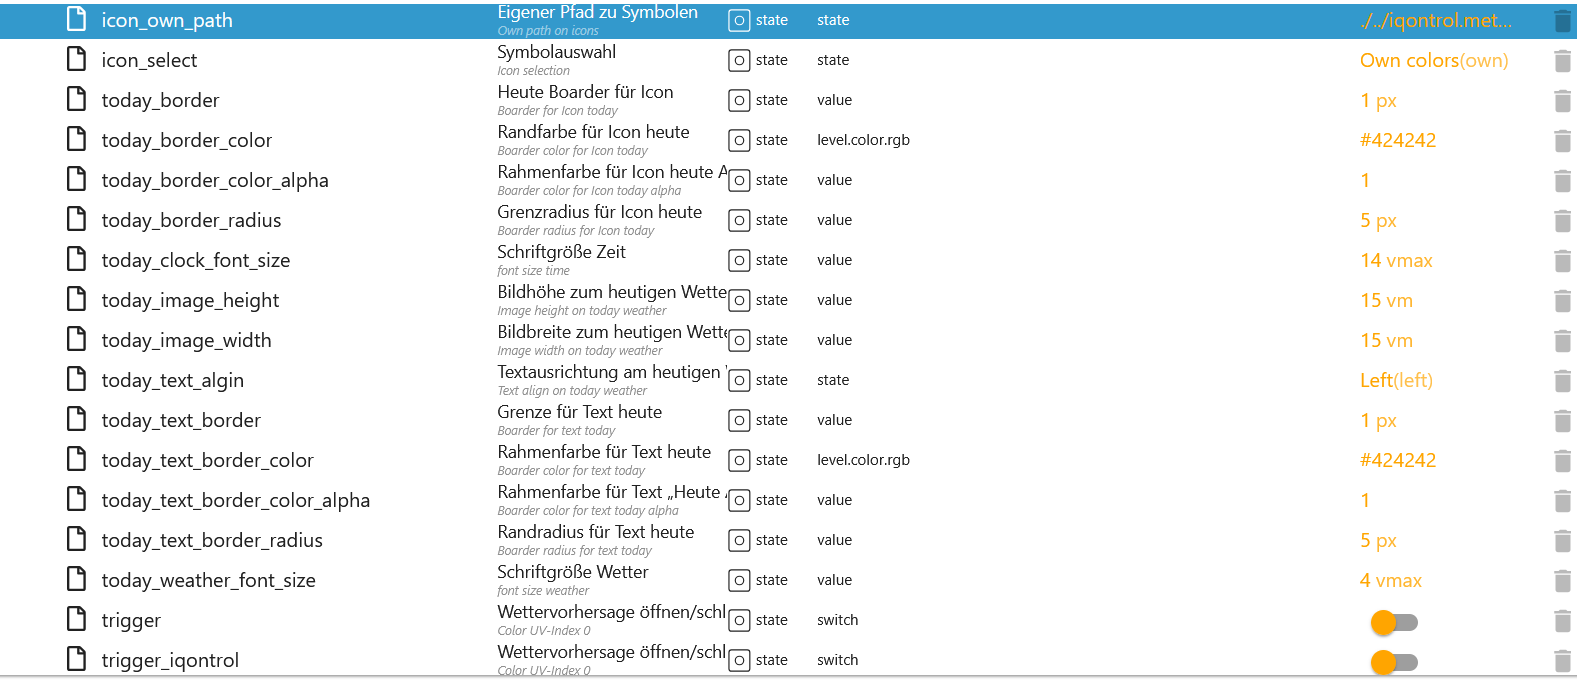
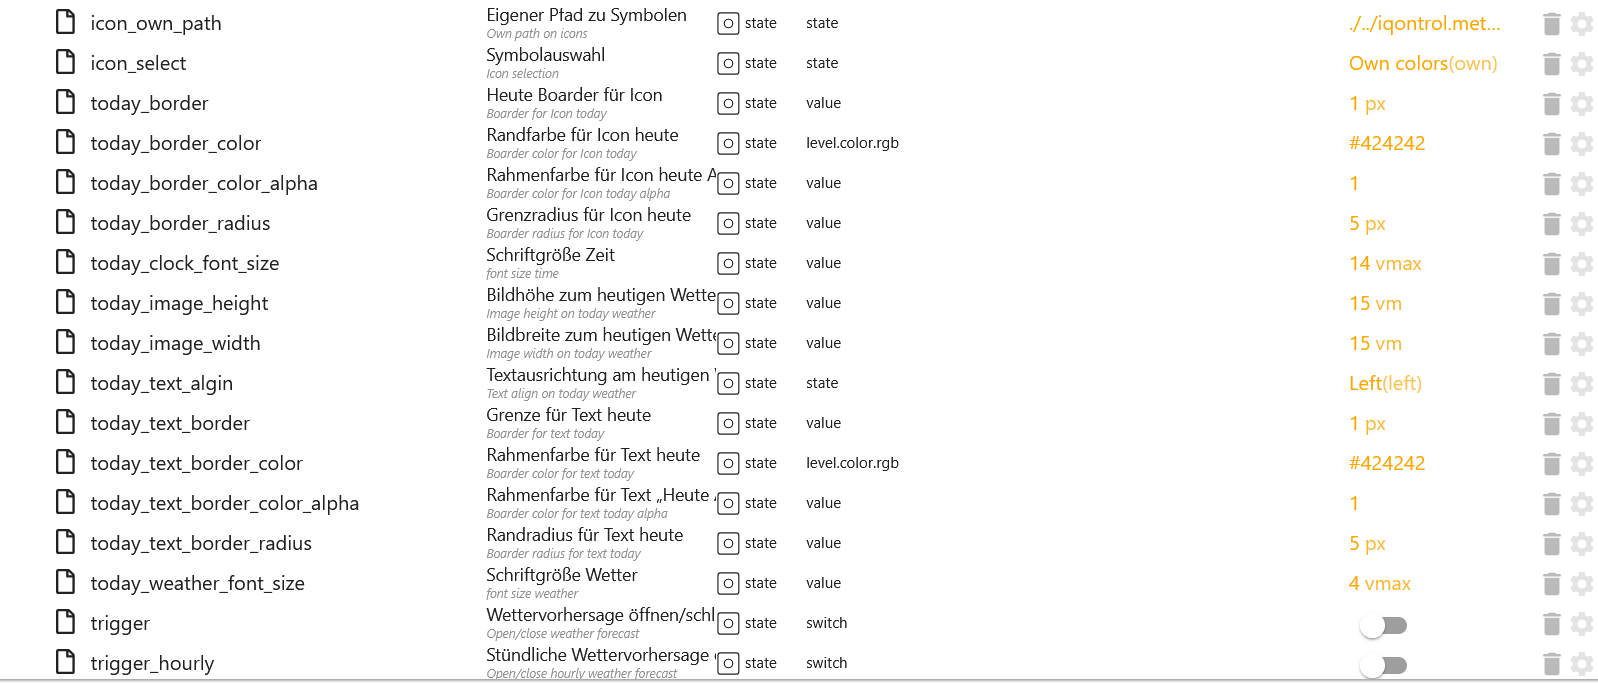
add 24h forecast for iqontrol

diff --git a/main.js b/main.js
@@ -227,11 +227,14 @@ class OpenMeteo extends utils.Adapter {
             } else if (command === "param") {
                 this.setOwnParam(state);
                 this.setState(id, { ack: true });
-            } else if (command === "trigger_iqontrol") {
-                this.html.trigger_iqontrol = state.val;
+            } else if (command === "trigger") {
+                this.html.trigger = state.val;
+                this.updateHTML();
                 this.setState(id, { ack: true });
-                this.setState(`html.trigger`, { val: this.html.trigger ? false : true, ack: true });
-                this.html.trigger = this.html.trigger ? false : true;
+            } else if (command === "trigger_hourly") {
+                this.html.trigger_hourly = state.val;
+                this.updateHTML();
+                this.setState(id, { ack: true });
             } else if (this.html[command]) {
                 this.log.debug(`HTML changed!`);
                 this.html[command] = state.val;
@@ -663,7 +666,7 @@ class OpenMeteo extends utils.Adapter {
                 this.param_second.minutely_15 != null
             ) {
                 const data = await this.getWeatherData(this.param_second);
-                //const data = constants.DUMMY_FOR_TESTING;
+                //const data = constants.TESTINGUV;
                 if (data) {
                     this.setStatusRequest(Math.round(this.req_second * 1.7));
                     this.log.debug(JSON.stringify(data));
@@ -1374,6 +1377,7 @@ class OpenMeteo extends utils.Adapter {
             `<img width="${this.html.today_weather_font_size * 5}px" height="${this.html.today_weather_font_size * 5}px" ` +
             `style="vertical-align:middle" alt="${actual_temperature}" title="${actual_temperature}" ` +
             `src='/adapter/open-meteo/img/thermalstress/${this.getThermalStress(actual_temperature)}'/>`;
+        const trigger_val = this.html.trigger ? false : true;
         let html =
             `<html>` +
             `<head>` +
@@ -1409,7 +1413,7 @@ class OpenMeteo extends utils.Adapter {
             `</head>` +
             `<body>` +
             `<div class="container_row"><span class="box_time"><b>${actual_clock}</b></span>` +
-            `    <input type="image" class="img_weather" onclick="setState('${this.namespace}.html.trigger_iqontrol', true)" src='${this.setIcon("current", id)}' />` +
+            `    <input type="image" class="img_weather" onclick="setState('${this.namespace}.html.trigger', ${trigger_val})" src='${this.setIcon("current", id)}' />` +
             `</div>` +
             `<div class="container_row">` +
             `    <div class="container_column">` +
@@ -1431,7 +1435,7 @@ class OpenMeteo extends utils.Adapter {
             const humidity = this.value[`daily.day0${i}.relative_humidity_2m_mean`];
             const humi =
                 `<img width="${this.html.forecast_font_size * 5}px" height="${this.html.forecast_font_size * 5}px" ` +
-                `style="vertical-align:middle" alt="${temp_min}" title="${temp_min}" ` +
+                `style="vertical-align:middle" alt="${humidity}" title="${humidity}" ` +
                 `src='/adapter/open-meteo/img/weathericons/humidity-water-drop.svg'/>`;
             const min =
                 `<img width="${this.html.forecast_font_size * 5}px" height="${this.html.forecast_font_size * 5}px" ` +
@@ -1456,6 +1460,142 @@ class OpenMeteo extends utils.Adapter {
         html += `    </table>` + `</div></body></html>`;
         this.log.debug(html);
         await this.setState(`html.html_code`, { val: html, ack: true });
+        this.updateHTMLHourly(actual_temperature);
+    }
+
+    async updateHTMLHourly(actual_temperature) {
+        let h = new Date().getHours();
+        const bg =
+            this.html.bg_color != "#000"
+                ? `	 background-color:${this.hexToRGBA(this.html.bg_color, this.html.bg_color_alpha)};`
+                : "";
+        const font =
+            this.html.font_color != "#000"
+                ? `;color:${this.hexToRGBA(this.html.font_color, this.html.font_color_alpha)}`
+                : "";
+        const id = this.value[`hourly.day01.hour${`0${h}`.slice(-2)}.weather_code`];
+        const actual_times = this.value[`hourly.day01.hour${`0${h}`.slice(-2)}.time`];
+        const name = constants.DAYNAME[new Date(actual_times).getDay()][this.lang];
+        const actual_date = this.formatDate(new Date(actual_times), "DD.MM.YYYY");
+        const actual_text = this.value[`hourly.day01.hour${`0${h}`.slice(-2)}.weather_code_text`];
+        const actual_clock = `${`0${new Date().getHours()}`.slice(-2)}:` + `${`0${new Date().getMinutes()}`.slice(-2)}`;
+        const actual =
+            `<img width="${this.html.today_weather_font_size * 5}px" height="${this.html.today_weather_font_size * 5}px" ` +
+            `style="vertical-align:middle" alt="${actual_temperature}" title="${actual_temperature}" ` +
+            `src='/adapter/open-meteo/img/thermalstress/${this.getThermalStress(actual_temperature)}'/>`;
+        const trigger_val = this.html.trigger_hourly ? false : true;
+        let html =
+            `<html>` +
+            `<head>` +
+            `<meta name="viewport" content="width=device-width, initial-scale=1.0, minimum-scale=1.0">` +
+            `<style>` +
+            `   body {${bg}}` +
+            `   span {text-align:${this.html.today_text_algin}${font};` +
+            `   border-radius:${this.html.today_border_radius}px;border-collapse:separate;border:${this.html.today_border}px solid gainsboro;` +
+            `   border-color:${this.hexToRGBA(this.html.today_border_color, this.html.today_border_color_alpha)};}` +
+            `   td {border-width:0px;border-style:solid;border-color:silver;}` +
+            `   input {height:10vw;width:10vw;}` +
+            `   .container_column {display:flex;flex-direction: column;justify-content: flex-start;` +
+            `   border-radius:${this.html.forecast_border_radius}px;border-collapse:separate;border:${this.html.forecast_border}px solid gainsboro;` +
+            `   border-color:${this.hexToRGBA(this.html.forecast_border_color, this.html.forecast_border_color_alpha)};}` +
+            `   .container_row {display: flex;flex-direction: row;justify-content: space-between;` +
+            `   border-radius:${this.html.today_text_border_radius}px;border-collapse:separate;border:${this.html.today_text_border}px solid gainsboro;` +
+            `   border-color:${this.hexToRGBA(this.html.today_text_border_color, this.html.today_text_border_color_alpha)};}` +
+            `   .img_weather {height:${this.html.today_image_height}vw;width:${this.html.today_image_width}vw;}` +
+            `   .box_time {font-size:${this.html.today_clock_font_size}vmax;}` +
+            `   .box_date {font-size:${this.html.today_date_font_size}vmax;text-align:center;}` +
+            `   .box_weather {font-size:${this.html.today_weather_font_size}vmax;margin-right:1.5vw;text-align:left;}` +
+            `   .table_forecast {margin-top:4vw;width: 100%;border-collapse: collapse;font-size:${this.html.forecast_font_size}vmax${font};}` +
+            `</style>` +
+            `<script type="text/javascript">` +
+            `    function setState(stateId, value){` +
+            `        sendPostMessage("setState", stateId, value);` +
+            `    }` +
+            `    function sendPostMessage(command, stateId, value){` +
+            `        message = {command: command, stateId: stateId, value: value};` +
+            `        window.parent.postMessage(message, "*");` +
+            `    }` +
+            `</script>` +
+            `</head>` +
+            `<body>` +
+            `<div class="container_row"><span class="box_time"><b>${actual_clock}</b></span>` +
+            `    <input type="image" class="img_weather" onclick="setState('${this.namespace}.html.trigger_hourly', ${trigger_val})" src='${this.setIcon("current", id)}' />` +
+            `</div>` +
+            `<div class="container_row">` +
+            `    <div class="container_column">` +
+            `        <span class="box_date"><b><i>${name}, ${actual_date}</i></b></span>` +
+            `    </div>` +
+            `    <div class="container_column">` +
+            `        <span class="box_weather">${actual} <b><i>${actual_temperature}°C</i></b></span>` +
+            `        <span class="box_weather"><i>${actual_text}</i></span>` +
+            `    </div>` +
+            `</div>` +
+            `<div class="container_column">` +
+            `    <table class="table_forecast">`;
+        if (h === 23) {
+            h = 0;
+        } else {
+            ++h;
+        }
+        if (this.config.forecast > 1) {
+            for (let i = h; i < 24; i++) {
+                const daily_id = this.value[`hourly.day01.hour${`0${i}`.slice(-2)}.weather_code`];
+                const times = this.value[`hourly.day01.hour${`0${i}`.slice(-2)}.time`];
+                const temp = this.value[`hourly.day01.hour${`0${i}`.slice(-2)}.apparent_temperature`];
+                const text = this.value[`hourly.day01.hour${`0${i}`.slice(-2)}.weather_code_text`];
+                const humidity = this.value[`hourly.day01.hour${`0${i}`.slice(-2)}.relative_humidity_2m`];
+                const humi =
+                    `<img width="${this.html.forecast_font_size * 5}px" height="${this.html.forecast_font_size * 5}px" ` +
+                    `style="vertical-align:middle" alt="${humidity}" title="${humidity}" ` +
+                    `src='/adapter/open-meteo/img/weathericons/humidity-water-drop.svg'/>`;
+                const min =
+                    `<img width="${this.html.forecast_font_size * 5}px" height="${this.html.forecast_font_size * 5}px" ` +
+                    `style="vertical-align:middle" alt="${temp}" title="${temp}" ` +
+                    `src='/adapter/open-meteo/img/thermalstress/${this.getThermalStress(temp)}'/>`;
+                const daily =
+                    `<img style="vertical-align:middle" width="${this.html.forecast_image_width}px" ` +
+                    `height="${this.html.forecast_image_height}px" alt="${text}" title="${text}" ` +
+                    `src='${this.setIcon(`daily.day0${i}`, daily_id)}'/>`;
+                html += `<tr>
+                                <td>${constants.DAYNAME[new Date(times).getDay()][this.lang]} ${this.timeCounting(new Date(times))}</td>
+                                <td>${daily}</td>
+                                <td nowrap>${min} ${temp}°C</td>
+                                <td>${humi} ${humidity}%</td>
+                                <td align=left>${text}</td>
+                            </tr>`;
+            }
+            if (h > 0) {
+                for (let i = 0; i < h; i++) {
+                    const daily_id = this.value[`hourly.day02.hour${`0${i}`.slice(-2)}.weather_code`];
+                    const times = this.value[`hourly.day02.hour${`0${i}`.slice(-2)}.time`];
+                    const temp = this.value[`hourly.day02.hour${`0${i}`.slice(-2)}.apparent_temperature`];
+                    const text = this.value[`hourly.day02.hour${`0${i}`.slice(-2)}.weather_code_text`];
+                    const humidity = this.value[`hourly.day02.hour${`0${i}`.slice(-2)}.relative_humidity_2m`];
+                    const humi =
+                        `<img width="${this.html.forecast_font_size * 5}px" height="${this.html.forecast_font_size * 5}px" ` +
+                        `style="vertical-align:middle" alt="${humidity}" title="${humidity}" ` +
+                        `src='/adapter/open-meteo/img/weathericons/humidity-water-drop.svg'/>`;
+                    const min =
+                        `<img width="${this.html.forecast_font_size * 5}px" height="${this.html.forecast_font_size * 5}px" ` +
+                        `style="vertical-align:middle" alt="${temp}" title="${temp}" ` +
+                        `src='/adapter/open-meteo/img/thermalstress/${this.getThermalStress(temp)}'/>`;
+                    const daily =
+                        `<img style="vertical-align:middle" width="${this.html.forecast_image_width}px" ` +
+                        `height="${this.html.forecast_image_height}px" alt="${text}" title="${text}" ` +
+                        `src='${this.setIcon(`daily.day0${i}`, daily_id)}'/>`;
+                    html += `<tr>
+                                    <td>${constants.DAYNAME[new Date(times).getDay()][this.lang]} ${this.timeCounting(new Date(times))}</td>
+                                    <td>${daily}</td>
+                                    <td nowrap>${min} ${temp}°C</td>
+                                    <td>${humi} ${humidity}%</td>
+                                    <td align=left>${text}</td>
+                                </tr>`;
+                }
+            }
+            this.log.debug(html);
+            html += `    </table>` + `</div></body></html>`;
+            await this.setState(`html.html_code_hourly`, { val: html, ack: true });
+        }
     }
 
     setIcon(path, id) {

diff --git a/lib/helper.js b/lib/helper.js
@@ -37,7 +37,7 @@ module.exports = {
         this.log.info(`Check ${found + del} objects and delete ${del} object(s)!`);
     },
     /**
-     * Create sunCalc
+     * Create HTML
      */
     async createHTML() {
         this.log.info(`Create or update html!`);
@@ -82,6 +82,52 @@ module.exports = {
             def: "",
         };
         await this.createDataPoint(`html.html_code`, common, "state", null, null);
+        if (this.config.forecast > 1) {
+            common = {
+                type: "string",
+                role: "state",
+                name: {
+                    en: "HTML for IQontrol (hourly)",
+                    de: "HTML für IQontrol (stündlich)",
+                    ru: "HTML для IQontrol (ежечасно)",
+                    pt: "HTML para IQontrol (por hora)",
+                    nl: "HTML voor IQontrol (per uur)",
+                    fr: "HTML pour IQontrol (horaire)",
+                    it: "HTML per IQontrol (ogni ora)",
+                    es: "HTML para IQontrol (cada hora)",
+                    pl: "HTML dla IQontrol (godzinowo)",
+                    uk: "HTML для IQontrol (щогодини)",
+                    "zh-cn": "IQontrol 的 HTML（每小时）",
+                },
+                desc: "HTML for IQontrol (hourly)",
+                read: true,
+                write: false,
+                def: "",
+            };
+            await this.createDataPoint(`html.html_code_hourly`, common, "state", null, null);
+        }
+        common = {
+            type: "boolean",
+            role: "switch",
+            name: {
+                en: "Open/close hourly weather forecast",
+                de: "Stündliche Wettervorhersage öffnen/schließen",
+                ru: "Открыть/закрыть почасовой прогноз погоды",
+                pt: "Previsão do tempo de abertura/fechamento",
+                nl: "Open/sluit uurlijkse weersvoorspelling",
+                fr: "Prévisions météo horaires d'ouverture/fermeture",
+                it: "Apri/chiudi le previsioni meteo orarie",
+                es: "Abrir/cerrar el pronóstico del tiempo por horas",
+                pl: "Otwórz/zamknij godzinową prognozę pogody",
+                uk: "Відкрити/закрити погодинний прогноз погоди",
+                "zh-cn": "打开/关闭每小时天气预报",
+            },
+            desc: "Open/close hourly weather forecast",
+            read: true,
+            write: true,
+            def: false,
+        };
+        await this.createDataPoint(`html.trigger_hourly`, common, "state", false, null);
         common = {
             type: "boolean",
             role: "switch",
@@ -98,34 +144,12 @@ module.exports = {
                 uk: "Відкрити/закрити прогноз погоди",
                 "zh-cn": "打开/关闭天气预报",
             },
-            desc: "Color UV-Index 0",
+            desc: "Open/close weather forecast",
             read: true,
             write: true,
             def: false,
         };
-        await this.createDataPoint(`html.trigger_iqontrol`, common, "state", null, null);
-        common = {
-            type: "boolean",
-            role: "switch",
-            name: {
-                en: "Open/close weather forecast",
-                de: "Wettervorhersage öffnen/schließen",
-                ru: "Открыть/закрыть прогноз погоды",
-                pt: "Previsão do tempo de abertura/fechamento",
-                nl: "Open/sluit weerbericht",
-                fr: "Prévisions météo ouvertes/fermées",
-                it: "Apri/chiudi le previsioni meteo",
-                es: "Abrir/cerrar pronóstico del tiempo",
-                pl: "Otwórz/zamknij prognozę pogody",
-                uk: "Відкрити/закрити прогноз погоди",
-                "zh-cn": "打开/关闭天气预报",
-            },
-            desc: "Color UV-Index 0",
-            read: true,
-            write: true,
-            def: false,
-        };
-        await this.createDataPoint(`html.trigger`, common, "state", null, null);
+        await this.createDataPoint(`html.trigger`, common, "state", false, null);
         common = {
             type: "string",
             role: "state",
@@ -812,7 +836,7 @@ module.exports = {
         await this.createDataPoint(`html.forecast_image_height`, common, "state", null, null);
     },
     /**
-     * Create sunCalc
+     * Create Icon Color
      */
     async createIconColor() {
         this.log.info(`Create or update icon color!`);

diff --git a/lib/constants.js b/lib/constants.js
@@ -3178,3 +3178,18 @@ exports.DUMMY_FOR_TESTING = {
         temperature_2m_mean: [13.4, 14.2, 12.3],
     },
 };
+exports.TESTINGUV = {
+    latitude: 52.492,
+    longitude: 7.279,
+    generationtime_ms: 0.03898143768310547,
+    utc_offset_seconds: 7200,
+    timezone: "Europe/Berlin",
+    timezone_abbreviation: "GMT+2",
+    elevation: 24,
+    daily_units: { time: "iso8601", uv_index_max: "", uv_index_clear_sky_max: "" },
+    daily: {
+        time: ["2025-04-12", "2025-04-13", "2025-04-14"],
+        uv_index_max: [5.25, 4.25, 5.1],
+        uv_index_clear_sky_max: [5.25, 5.1, 5.3],
+    },
+};

diff --git a/docs/de/README.md b/docs/de/README.md
@@ -487,6 +487,7 @@
 | forecast_image_height         | Bildhöhe von der Wettervorhersage                                  |
 | forecast_image_width          | Bildbreite von der Wettervorhersage                                |
 | html_code                     | HTML Code für IQontrol, VIS und VIS2 [VIS2 Script](#java-für-vis2) |
+| html_code_hourly              | HTML Code für IQontrol, VIS und VIS2 [VIS2 Script](#java-für-vis2) |
 | icon_own_path                 | Path vom Icon                                                      |
 | icon_select                   | Auswahl Icon (Pfad, Icon mt Farbänderung, eigene Icon)             |
 | today_border                  | Rahmenbreite vom aktuellen Tag                                     |
@@ -503,7 +504,7 @@
 | today_text_border_radius      | Rahmenradius Text vom aktuellen Tag                                |
 | today_weather_font_size       | Schriftgröße Wetter vom aktuellen Tag                              |
 | trigger                       | NUR für IQontrol um die Wettervorhersage anzuzeigen                |
-| trigger_iqontrol              | NUR für IQontrol um die Wettervorhersage anzuzeigen                |
+| trigger_hourly                | NUR für IQontrol um die stündliche Wettervorhersage anzuzeigen     |
 
 ![wweather_states_html_1.png](img/weather_states_html_1.png)</br>
 ![wweather_states_html_2.png](img/weather_states_html_2.png)

diff --git a/docs/en/README.md b/docs/en/README.md
@@ -487,6 +487,7 @@
 | forecast_image_height         | Weather forecast image height                                      |
 | forecast_image_width          | Image width of the weather forecast                                |
 | html_code                     | HTML code for IQontrol, VIS and VIS2 [VIS2 Script](#java-for-vis2) |
+| html_code_hourly              | HTML code for IQontrol, VIS and VIS2 [VIS2 Script](#java-for-vis2) |
 | icon_own_path                 | Path of the icon                                                   |
 | icon_select                   | Select icon (path, icon with color change, own icon)               |
 | today_border                  | Border width of the current day                                    |
@@ -503,7 +504,7 @@
 | today_text_border_radius      | Text border radius of the current day                              |
 | today_weather_font_size       | Weather font size of the current day                               |
 | trigger                       | ONLY for IQontrol to display the weather forecast                  |
-| trigger_iqontrol              | ONLY for IQontrol to display the weather forecast                  |
+| trigger_hourly                | ONLY for IQontrol to display the hourly weather forecast           |
 
 ![wweather_states_html_1.png](img/weather_states_html_1.png)</br>
 ![wweather_states_html_2.png](img/weather_states_html_2.png)
